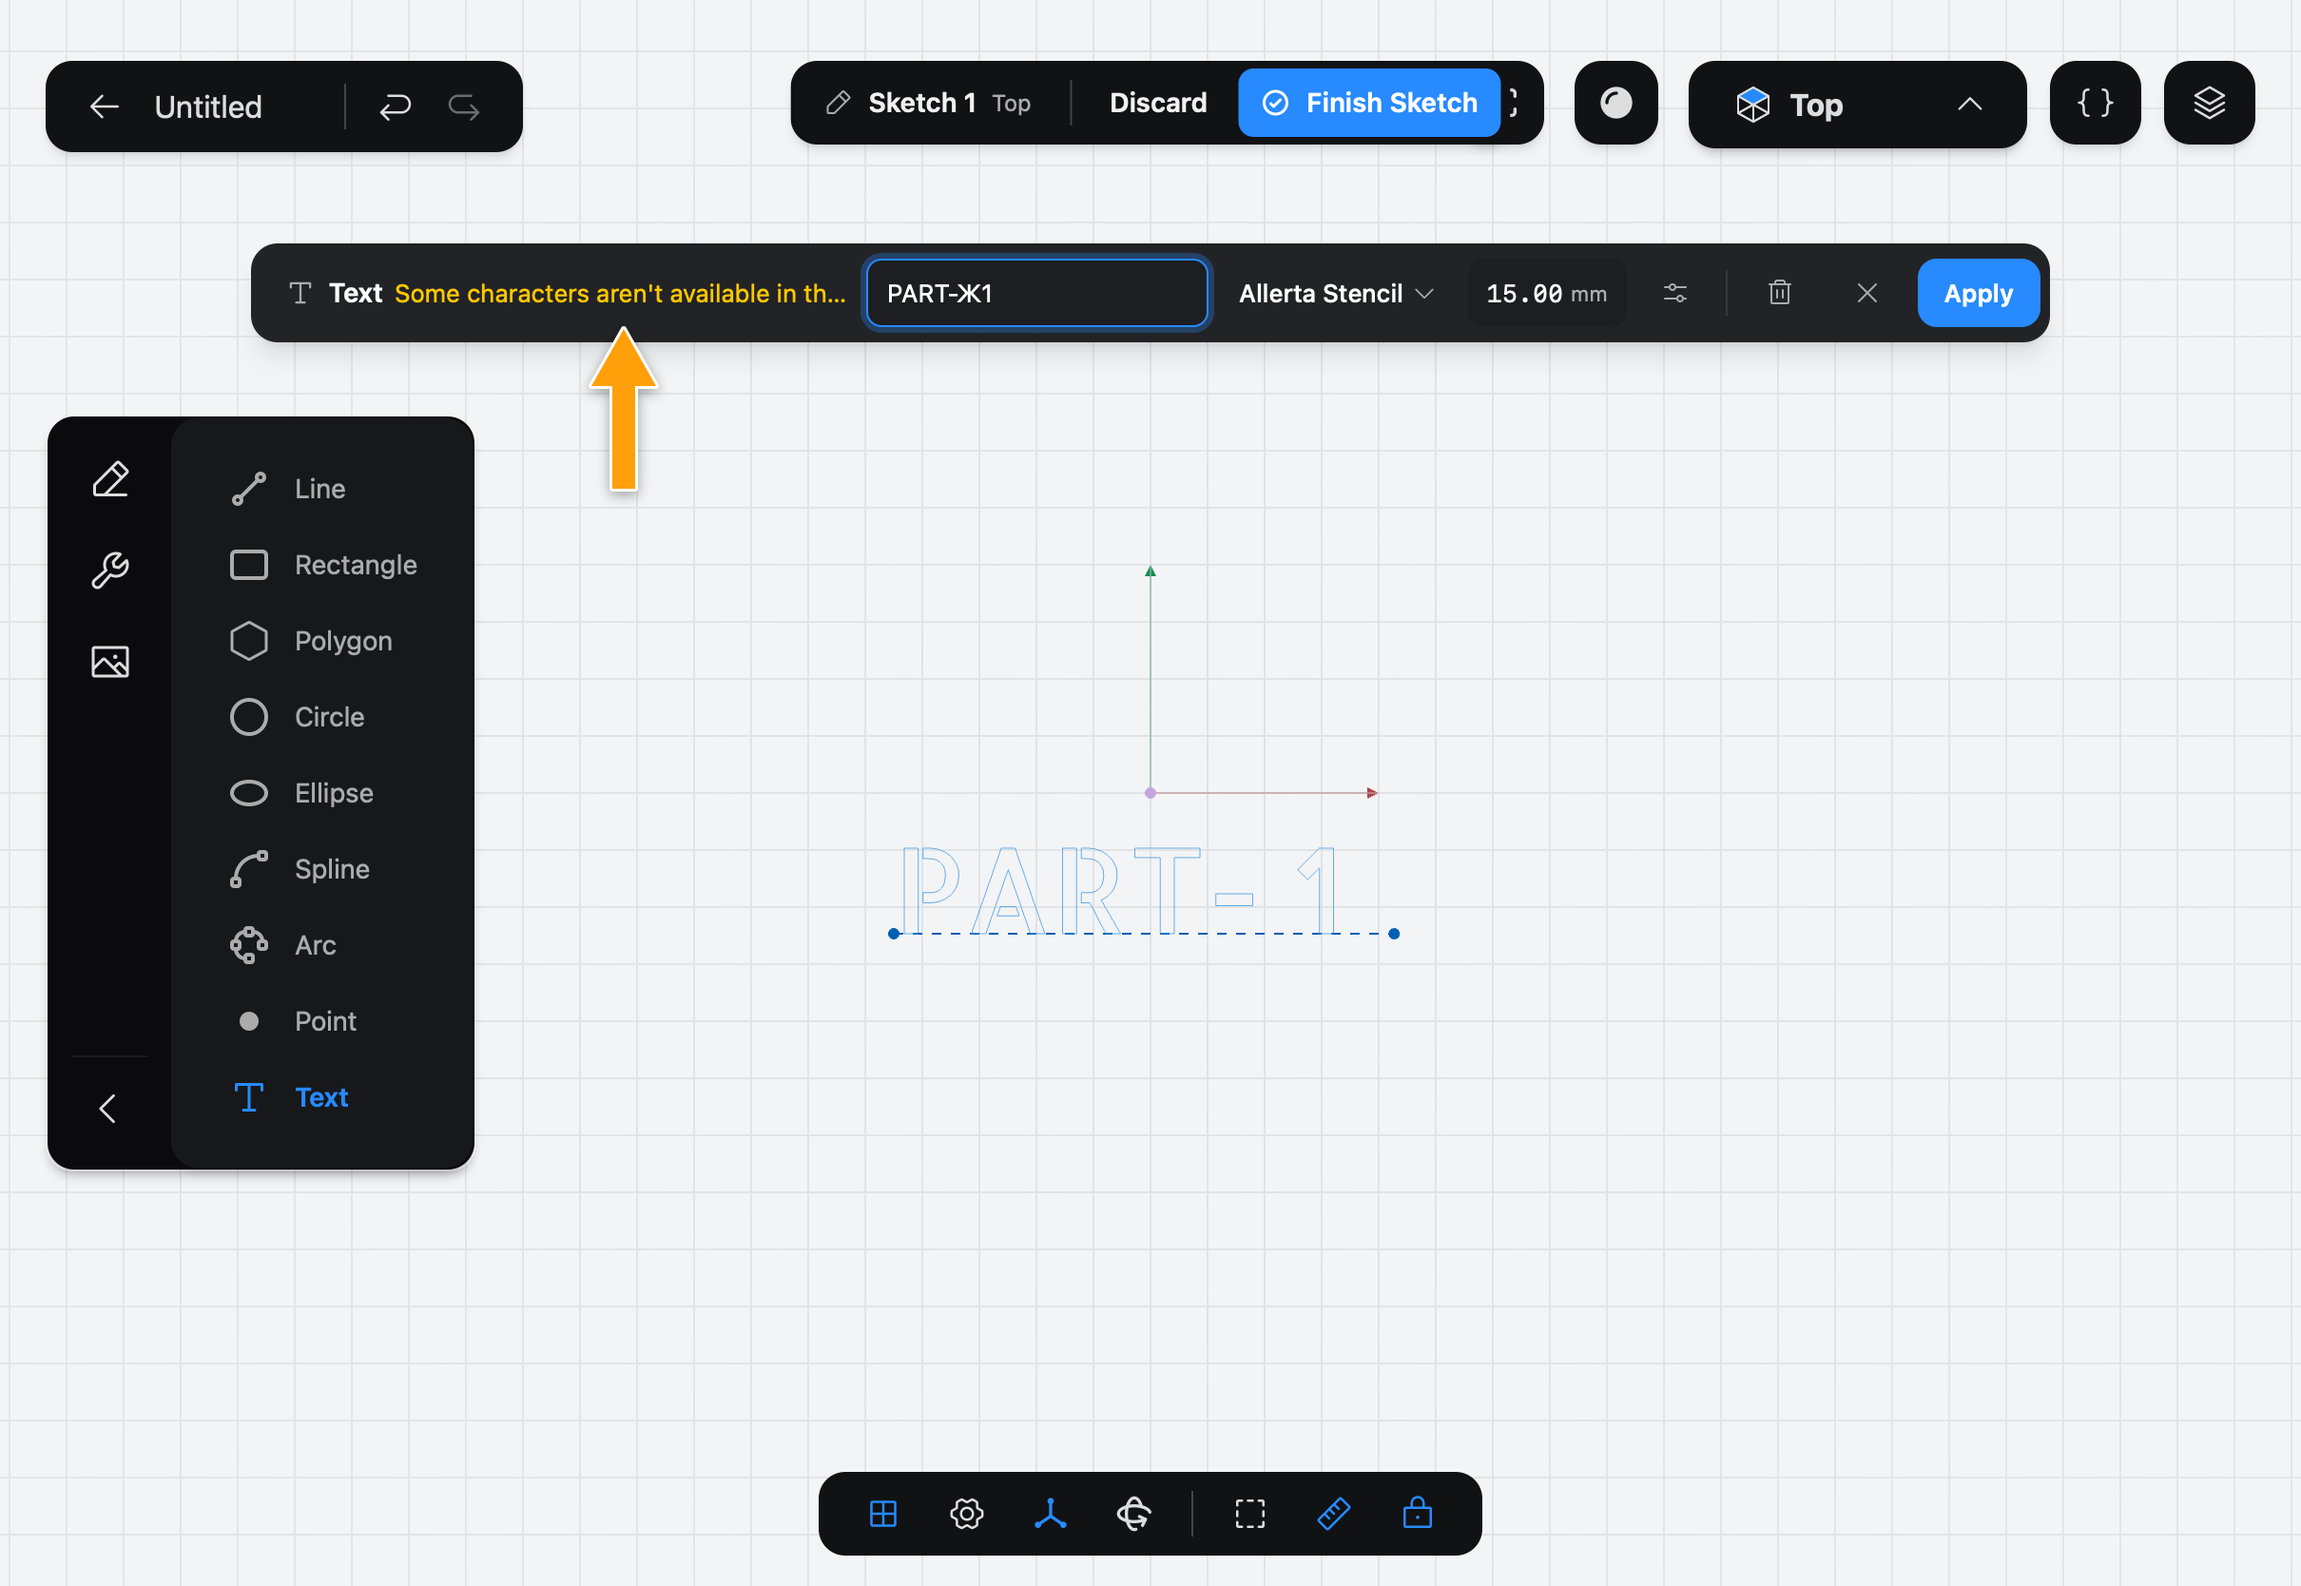
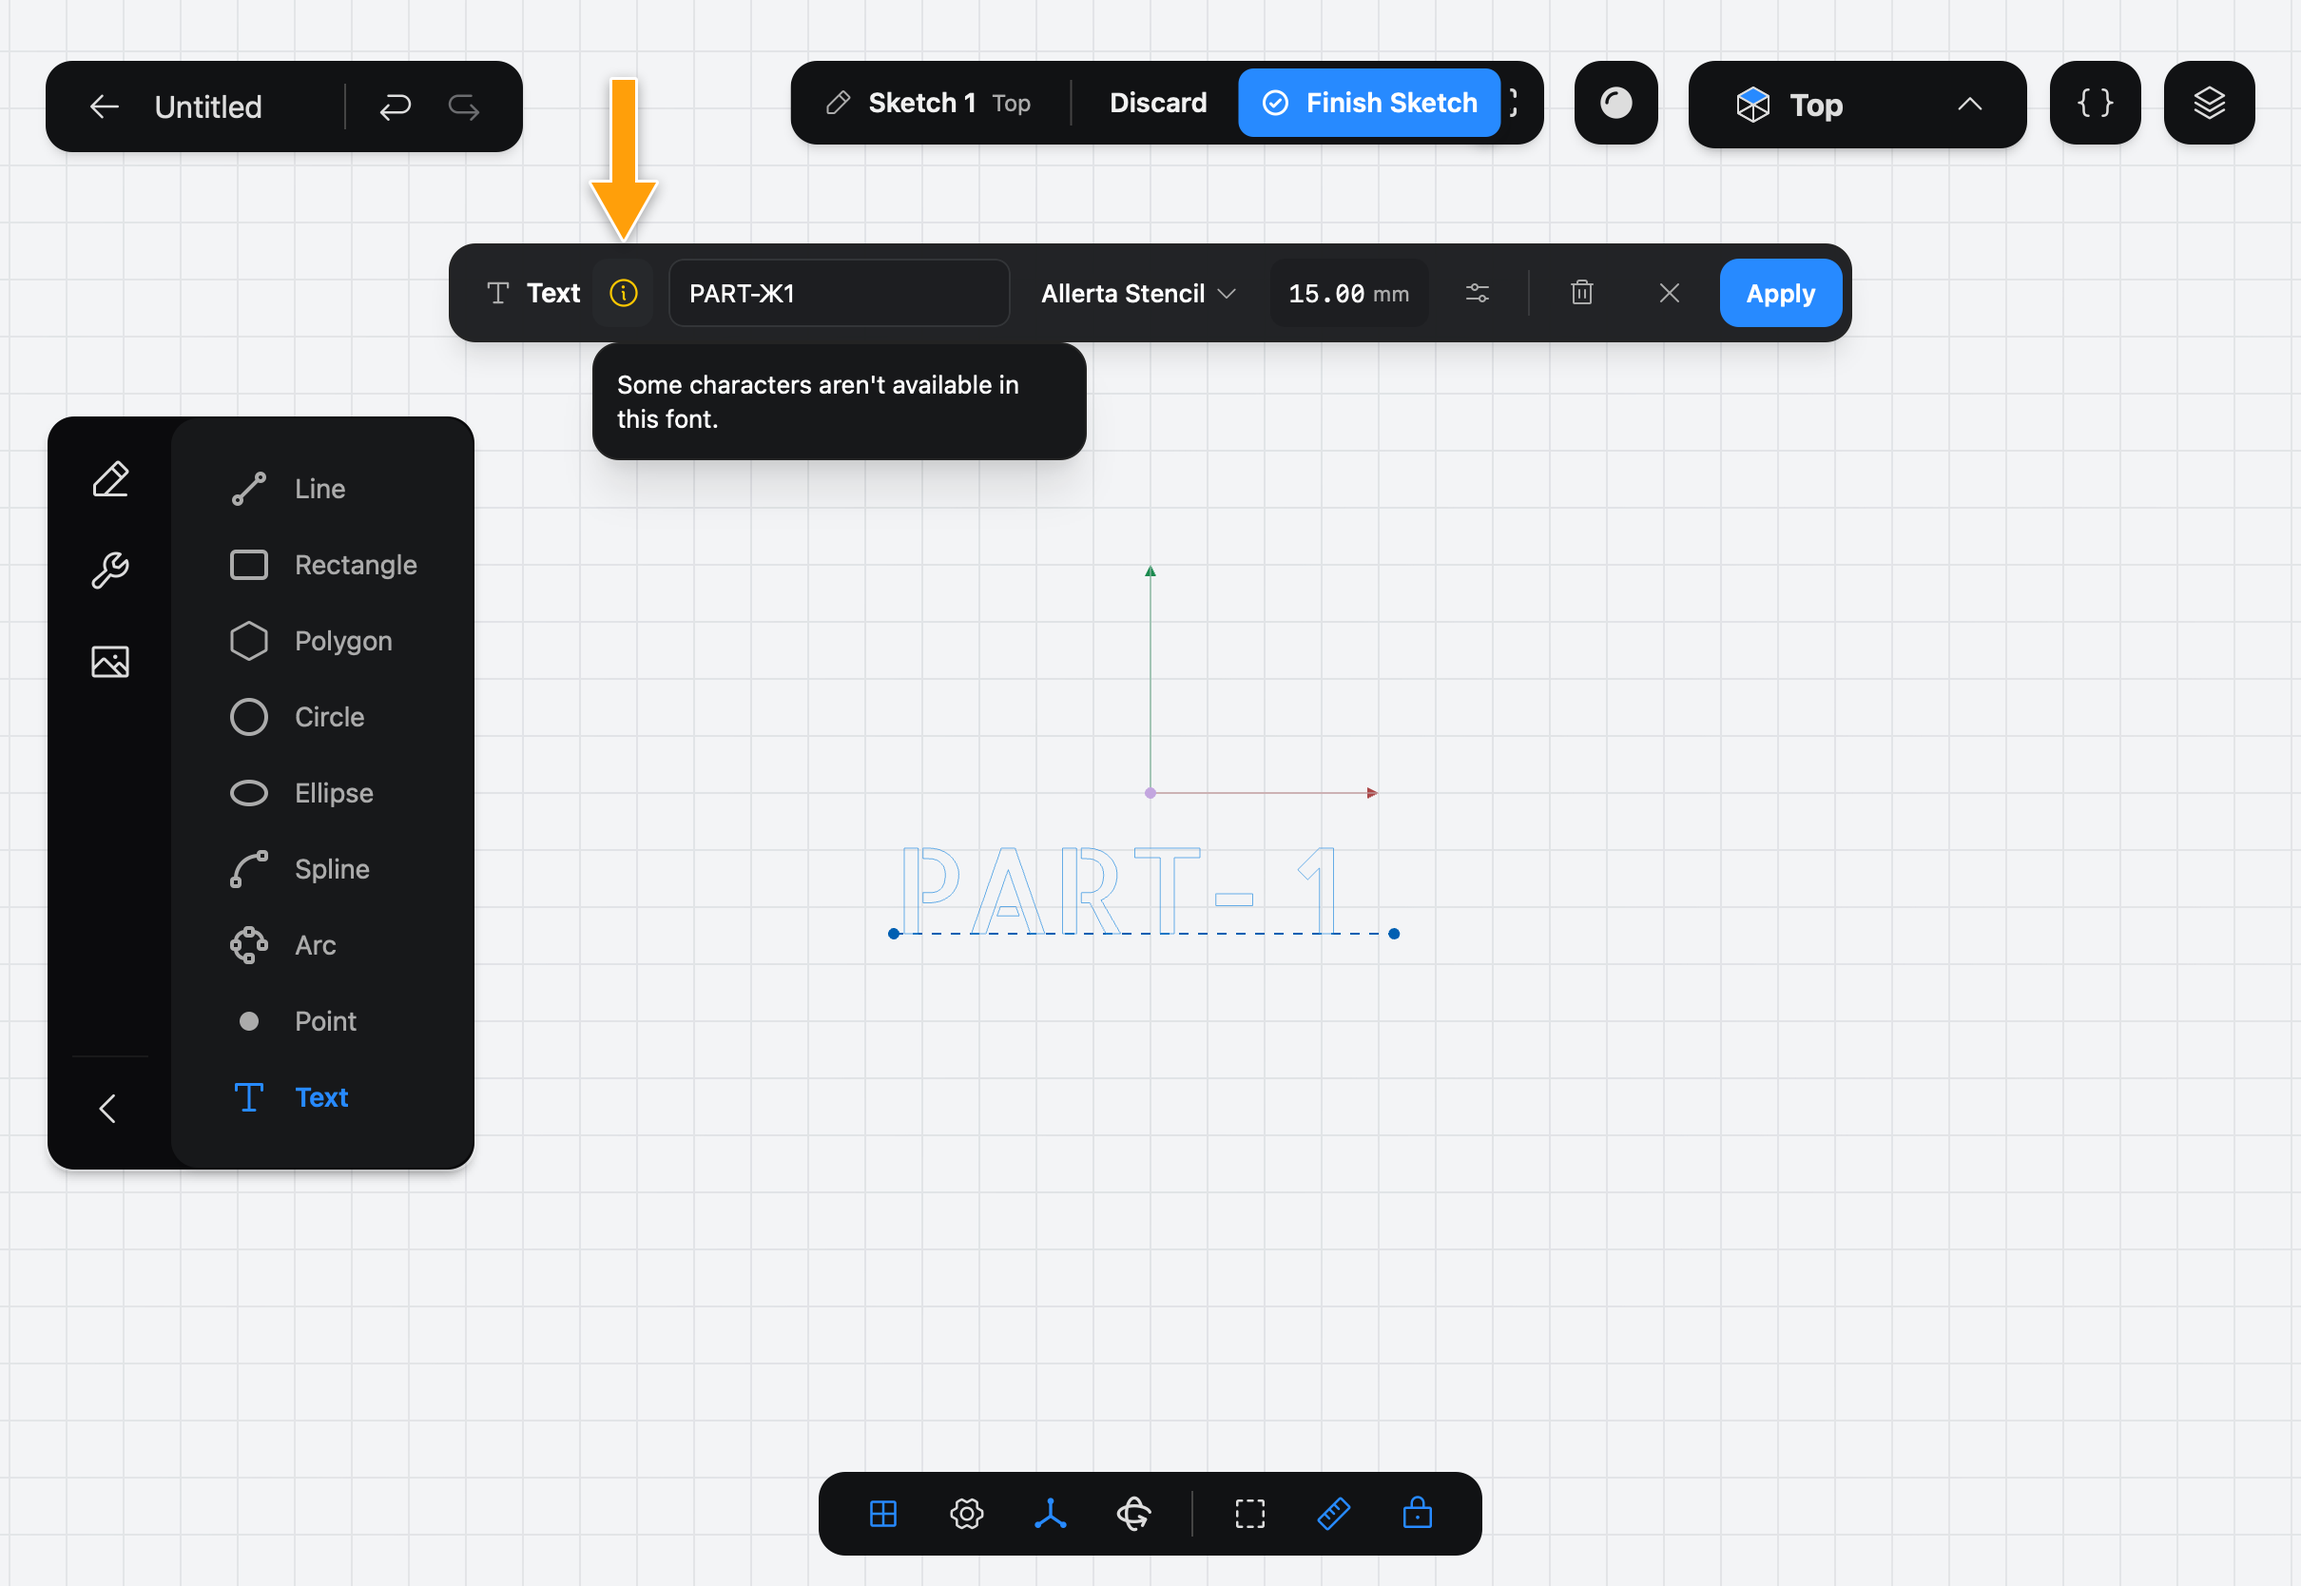
Text page: the Text bar's warnings are behind an info button that opens a box with the message

Changed region(s): [[0.093, 0.0312, 0.6198, 0.3118], [0.7438, 0.1559, 0.8988, 0.2182], [0.6508, 0.1559, 0.6818, 0.1871]]

diff --git a/04-sketching/text/index.md b/04-sketching/text/index.md
@@ -75,7 +75,7 @@ If you change the words, faces that a later Feature picked on the letters stay p
 | Allerta Stencil | Letters with no loose inner parts (see below) |
 | Archivo Black | Heavy display lettering for signs |
 
-The Noto fonts cover Latin, Greek and Cyrillic letters; the others cover fewer, and the bar tells you when a character is missing. You can't add your own fonts, but every Document opens with exactly the lettering it was made with, on any device.
+The Noto fonts cover Latin, Greek and Cyrillic letters; the others cover fewer. When a character is missing, an info button appears in the bar (see Common problems). You can't add your own fonts, but every Document opens with exactly the lettering it was made with, on any device.
 
 ### Why the stencil font matters
 
@@ -123,9 +123,11 @@ A stamp or a mold needs its text back to front, so it reads correctly once print
 
 ## Common problems
 
+When something in the text can't be drawn, an info button (ⓘ) appears in the Text bar, next to its name. Tap it to read the message in a box below the bar; tap it again, tap elsewhere or press **Esc** to close the box. The button goes away once the problem is fixed.
+
 - **"Some characters aren't available in this font."** The font has no letter for some of what you typed, such as an emoji or a script it doesn't cover. Those characters are left as blank space. Remove them or pick another font: the Noto fonts cover the most.
 
-  ![The missing characters warning in the Text bar](images/text-07-missing-glyphs.png)
+  ![The info button in the Text bar, open on the missing characters message](images/text-07-missing-glyphs.png)
 
 - **"These characters couldn't be built and were left out":** the shape of those letters failed. The rest of the text is still built. Try another font or a larger Cap Height.
 - **The centers of O, A or R are missing from a cut-through plate:** that's the counters falling out. Use Allerta Stencil.
